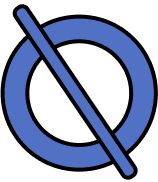
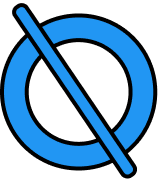
new design

diff --git a/lib/Views/home.dart b/lib/Views/home.dart
@@ -230,16 +230,18 @@ class _HomeState extends State<Home> {
       if (mounted) {
         Provider.of<WaterModel>(context, listen: false).addWater(index, water);
 
-        double dailyGoal = Provider.of<SettingsModel>(context, listen: false).dailyGoal;
-        int waterAmount = Provider.of<WaterModel>(context, listen: false).totalWaterAmountPerDay(DateTime.now());
-        if(waterAmount >= dailyGoal) {
+        double dailyGoal =
+            Provider.of<SettingsModel>(context, listen: false).dailyGoal;
+        int waterAmount = Provider.of<WaterModel>(context, listen: false)
+            .totalWaterAmountPerDay(DateTime.now());
+        if (waterAmount >= dailyGoal) {
           final snackBar = SnackBar(
             backgroundColor: Colors.green,
-          behavior: SnackBarBehavior.floating,
-          content: Text('Nice One! You reached your daily Goal!'),
-    );
+            behavior: SnackBarBehavior.floating,
+            content: Text('Nice One! You reached your daily Goal!'),
+          );
 
-    ScaffoldMessenger.of(context).showSnackBar(snackBar);
+          ScaffoldMessenger.of(context).showSnackBar(snackBar);
         }
       } else {
         print('not mounted');
@@ -305,7 +307,7 @@ class _HomeState extends State<Home> {
           mainAxisAlignment: MainAxisAlignment.center,
           children: <Widget>[
             Text(
-              'Stay Hydrated',
+              'Stay Hydrated!',
               style: Theme.of(context).textTheme.headline2,
             ),
             Expanded(
@@ -492,11 +494,7 @@ class _HomeState extends State<Home> {
               ),
             ),
             Expanded(
-              child: Card(
-                margin: const EdgeInsets.only(
-                    top: 4, right: 11, bottom: 11, left: 11),
-                elevation: Constants.CARD_ELEVATION,
-                child: ListView.builder(
+              child:  ListView.builder(
                     padding: const EdgeInsets.all(8),
                     itemCount: Provider.of<WaterModel>(context, listen: true)
                         .history
@@ -515,7 +513,7 @@ class _HomeState extends State<Home> {
                       );
                     }),
               ),
-            ),
+            
           ],
         ),
       ),

diff --git a/lib/main.dart b/lib/main.dart
@@ -75,7 +75,7 @@ class WaterTrackerApp extends StatelessWidget {
           // text styling for headlines, titles, bodies of text, and more.
           textTheme: TextTheme(
             headline1: TextStyle(fontSize: 50.0, fontWeight: FontWeight.bold),
-            headline2: TextStyle(fontSize: 42.0, fontWeight: FontWeight.bold),
+            headline2: TextStyle(fontSize: 30.0, fontWeight: FontWeight.bold, color: Colors.black),
             headline3: TextStyle(fontSize: 32.0),
             headline4: TextStyle(fontSize: 24.0),
             bodyText2: TextStyle(fontSize: 14.0),
@@ -166,7 +166,24 @@ class _MainState extends State<Main> {
             topLeft: Radius.circular(20.0),
             topRight: Radius.circular(20.0),
           ),
-          child: BottomNavigationBar(
+          child:
+          Container(
+            
+            decoration:  BoxDecoration(
+                              gradient: LinearGradient(
+                                begin: Alignment.topRight,
+                                end: Alignment.bottomLeft,
+                                tileMode: TileMode.clamp,
+                                colors: [
+                                  Colors.blue,
+                                  Colors.lightBlueAccent,
+                                ],
+                              ),),
+            child: 
+          
+          
+           BottomNavigationBar(
+             elevation: 0,
             type: BottomNavigationBarType.fixed,
             currentIndex: _currentIndex,
             items: <BottomNavigationBarItem>[
@@ -188,9 +205,10 @@ class _MainState extends State<Main> {
               ),
             ],
             selectedItemColor: Colors.white,
-            backgroundColor: Colors.blue,
+            backgroundColor: Colors.transparent,
+
             onTap: _onItemTapped,
-          ),
+          ),),
         ),
       ),
     );

diff --git a/lib/Views/goals.dart b/lib/Views/goals.dart
@@ -77,10 +77,7 @@ class _GoalsState extends State<Goals> {
                 alignment: Alignment(0.60, -0.80),
                 child: Column(
                   children: [
-                    Card(
-                        elevation: Constants.CARD_ELEVATION,
-                        margin: Constants.CARD_MARGIN,
-                        child: Column(children: <Widget>[
+                     Column(children: <Widget>[
                           Row(
                               mainAxisAlignment: MainAxisAlignment.center,
                               crossAxisAlignment: CrossAxisAlignment.start,
@@ -155,10 +152,22 @@ class _GoalsState extends State<Goals> {
                                     unit: 'Times',
                                     subtitle: 'Drinks After\n Remind')
                               ])
-                        ])),
+                        ])
                   ],
                 )),
+             const Divider(
+                height: 20,
+                thickness: 1,
+                indent: 10,
+                endIndent: 5,
+              ),
             DailyGoal(),
+             const Divider(
+                height: 20,
+                thickness: 1,
+                indent: 5,
+                endIndent: 10,
+              ),
             InfoCard(title: "\nDid you know that...",
             text:tr("infos.info"+randomNumber.toString()),
             )

diff --git a/lib/Widgets/statistics/WeeklyBarChart.dart b/lib/Widgets/statistics/WeeklyBarChart.dart
@@ -25,6 +25,11 @@ class WeeklyBarChartState extends State<WeeklyBarChart> {
 
   static const Color foregroundColor = Color(0xFFF2F2F2);
 
+  List<Color> gradientColors = [
+    const Color(0xff8d60bd),
+    const Color(0xffb941bf),
+  ];
+
   WeeklyBarChartState(this.waterListWeek, this.startDate) {
     if(waterListWeek.isEmpty) {
       waterListWeek = [0,0,0,0,0,0,0];
@@ -66,7 +71,7 @@ class WeeklyBarChartState extends State<WeeklyBarChart> {
                     borderRadius: BorderRadius.all(Radius.circular(4)),
                     width: barWidth,
                     y: waterValue > _maxY ? _maxY / 1000 : waterValue / 1000,
-                    colors: [Colors.lightBlueAccent, Colors.greenAccent])
+                    colors: gradientColors)
               ],
               showingTooltipIndicators: [0],
             ),
@@ -114,6 +119,7 @@ class WeeklyBarChartState extends State<WeeklyBarChart> {
 
   BarChartData mainData() {
     return BarChartData(
+
       alignment: BarChartAlignment.spaceAround,
       maxY: _maxY / 1000,
       barTouchData: BarTouchData(
@@ -166,6 +172,7 @@ class WeeklyBarChartState extends State<WeeklyBarChart> {
               return '';
             }),
       ),
+      
       gridData: FlGridData(
         show: true,
         checkToShowHorizontalLine: (value) => (value % 1 == 0),

diff --git a/lib/Widgets/statistics/Chart.dart b/lib/Widgets/statistics/Chart.dart
@@ -33,13 +33,28 @@ class ChartState extends State<Chart> {
   Widget build(BuildContext context) {
     return AspectRatio(
       aspectRatio: 1.7,
-      child: Card(
+      child: Container(
+        
+        decoration: BoxDecoration(
+          borderRadius: BorderRadius.circular(12),
+                              gradient: LinearGradient(
+                                begin: Alignment.topRight,
+                                end: Alignment.bottomLeft,
+                                tileMode: TileMode.clamp,
+                                colors: [
+                                  Colors.blue,
+                                  Colors.lightBlueAccent,
+                                ],
+                              ),),
+        child: Card(
           shape:
               RoundedRectangleBorder(borderRadius: BorderRadius.circular(12)),
-          color: const Color(0xff5171C5),
+          color: Colors.transparent,
+          elevation: 0,
           child: Provider.of<SettingsModel>(context, listen: true).dayDiagramm
               ? DailyLineChart(waterListDay)
               : WeeklyBarChart(waterListWeek, selectedDate)),
-    );
+    ),
+      ); 
   }
 }

diff --git a/lib/Widgets/shared/InfoCard.dart b/lib/Widgets/shared/InfoCard.dart
@@ -12,20 +12,20 @@ class InfoCard extends StatelessWidget {
   @override
   Widget build(BuildContext context) {
     return Card(
-      margin: Constants.CARD_MARGIN,
+      margin: EdgeInsets.only(top: 10, left: 5, bottom: 20, right: 5),
       elevation: Constants.CARD_ELEVATION,
       shape: RoundedRectangleBorder(
-    side: BorderSide(color: Colors.blue, width: 1),
-    borderRadius: BorderRadius.circular(10),
+        side: BorderSide(color: Colors.blue, width: 1),
+        borderRadius: BorderRadius.circular(10),
       ),
       child: Row(
         children: <Widget>[
           Container(
-            child: Image.asset('assets/images/ausrufezeichen.png', scale: 10),
+            child: Image.asset('assets/images/ausrufezeichen.png', scale: 7),
           ),
           Container(
-          //margin: EdgeInsets.fromLTRB(0,10,0,10),
-            width: MediaQuery.of(context).size.width / 1.44 ,
+            //margin: EdgeInsets.fromLTRB(0,10,0,10),
+            width: MediaQuery.of(context).size.width / 1.44,
             height: MediaQuery.of(context).size.height / 6.8,
             // height: SizeConfig.screenHeight,
             child: AutoSizeText.rich(

diff --git a/lib/Views/statistics.dart b/lib/Views/statistics.dart
@@ -85,6 +85,10 @@ class _StatisticsState extends State<Statistics> {
             Card(
               elevation: Constants.CARD_ELEVATION,
               margin: Constants.CARD_MARGIN,
+              shape: RoundedRectangleBorder(
+                side: BorderSide(color: Colors.blue, width: 1),
+                borderRadius: BorderRadius.circular(12),
+              ),
               child: Column(
                 children: [
                   Row(
@@ -101,8 +105,8 @@ class _StatisticsState extends State<Statistics> {
                           minWidth: 58.0,
                           cornerRadius: 14.0,
                           activeBgColors: [
-                            [Color(0xFF5171C5)],
-                            [Color(0xFF5171C5)]
+                            [Colors.blue],
+                            [Colors.blue]
                           ],
                           activeFgColor: Colors.white,
                           inactiveBgColor: Color(0xFFb5b5b5),

diff --git a/lib/Widgets/goals/AchievementCircle.dart b/lib/Widgets/goals/AchievementCircle.dart
@@ -38,7 +38,7 @@ class AchievementCircle extends StatelessWidget {
             children: <Widget>[
               //Container(height: 10.0), // Space Top
               Stack(
-                overflow: Overflow.visible,
+                clipBehavior: Clip.none,
                 //mainAxisAlignment: MainAxisAlignment.start,
                 children: <Widget>[
                   Container(
@@ -131,7 +131,7 @@ class AchievementCircle extends StatelessWidget {
                 minFontSize: 6,
                 style: TextStyle(
                   color: (this.color != Color.fromRGBO(231, 0, 0, 1.0))
-                      ? Colors.black54
+                      ? Colors.black
                       : Colors.blue[100],
                   fontSize: 16.0,
                 ),

diff --git a/lib/Widgets/goals/DailyGoal.dart b/lib/Widgets/goals/DailyGoal.dart
@@ -72,10 +72,7 @@ class DailyGoal extends StatelessWidget {
 
   @override
   Widget build(BuildContext context) {
-    return Card(
-      elevation: Constants.CARD_ELEVATION,
-      margin: Constants.CARD_MARGIN,
-      child: Column(
+    return  Column(
         mainAxisAlignment: MainAxisAlignment.center,
         children: <Widget>[
           Row(
@@ -214,7 +211,7 @@ class DailyGoal extends StatelessWidget {
                 )),
           ),
         ],
-      ),
+      
     );
   }
 }

diff --git a/lib/Widgets/statistics/AverageCard.dart b/lib/Widgets/statistics/AverageCard.dart
@@ -22,6 +22,10 @@ class AverageCard extends StatelessWidget {
     return Card(
       margin: EdgeInsets.all(MediaQuery.of(context).size.width * 0.025),
       elevation: Constants.CARD_ELEVATION,
+      shape: RoundedRectangleBorder(
+        side: BorderSide(color: Colors.blue, width: 1),
+        borderRadius: BorderRadius.circular(10),
+      ),
       child: Padding(
         padding: EdgeInsets.all(5),
         child: Container(

diff --git a/lib/Views/settings.dart b/lib/Views/settings.dart
@@ -534,7 +534,7 @@ class _SettingsState extends State<Settings> {
                   child: ElevatedButton(
                       child: const Text('dialog.reset').tr(),
                       style: ElevatedButton.styleFrom(
-                        primary: Colors.redAccent,
+                        primary: Color(0xFFb941bf),
                       ),
                       onPressed: () => {
                         showDialog(

diff --git a/lib/Widgets/home/HistoryListElement.dart b/lib/Widgets/home/HistoryListElement.dart
@@ -95,7 +95,7 @@ class HistoryListElement extends StatelessWidget {
                       color: Color(0xF2000000),
                     ),
                     BoxShadow(
-                        color: Color(0xFFC2DBFF),
+                        color: Colors.lightBlueAccent,
                         spreadRadius: -1,
                         blurRadius: 1.0,
                         offset: Offset(0, 1)),
